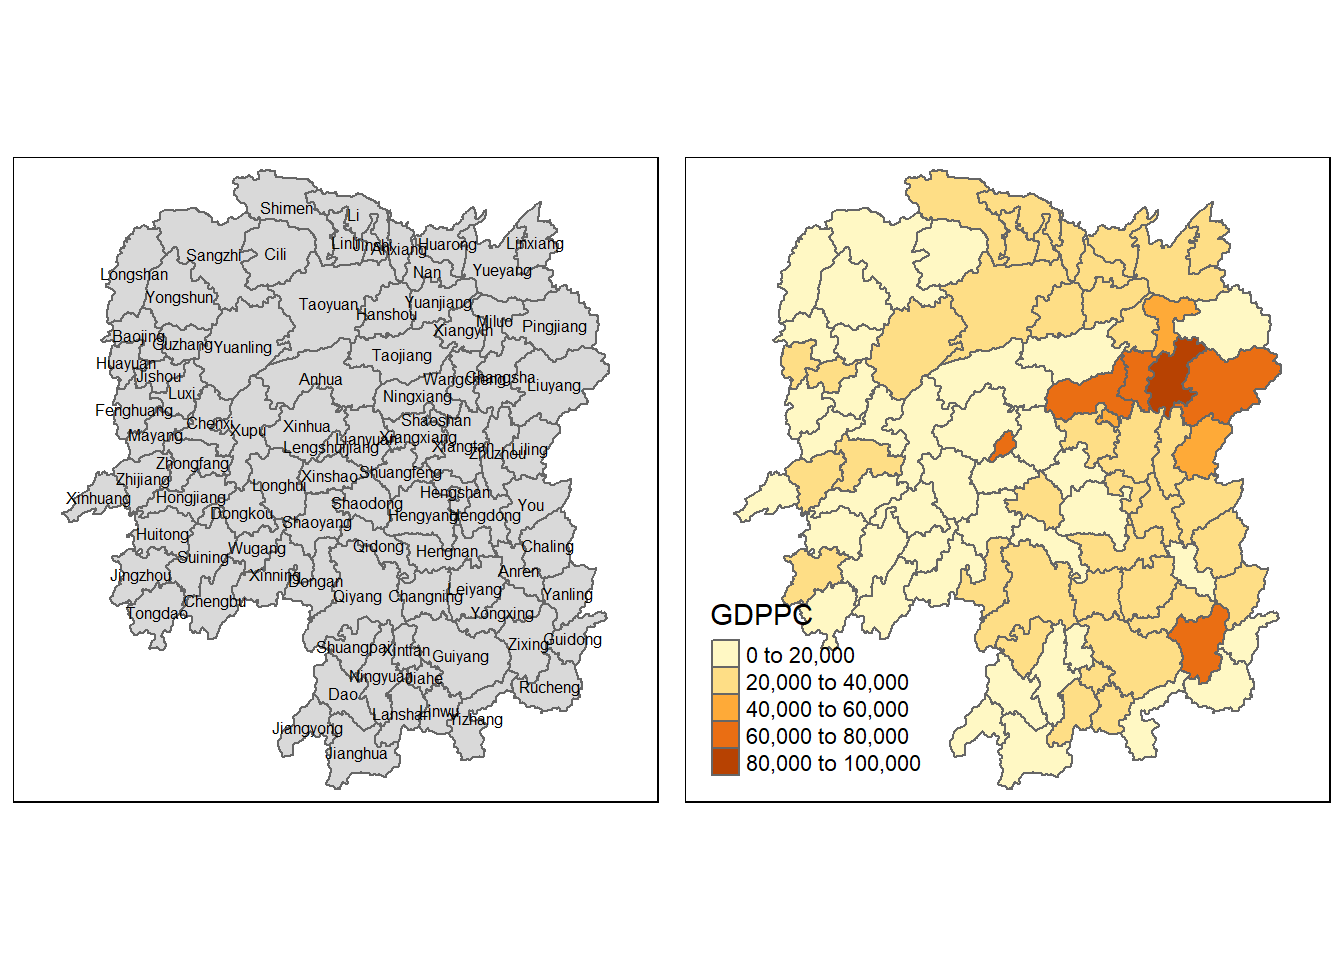
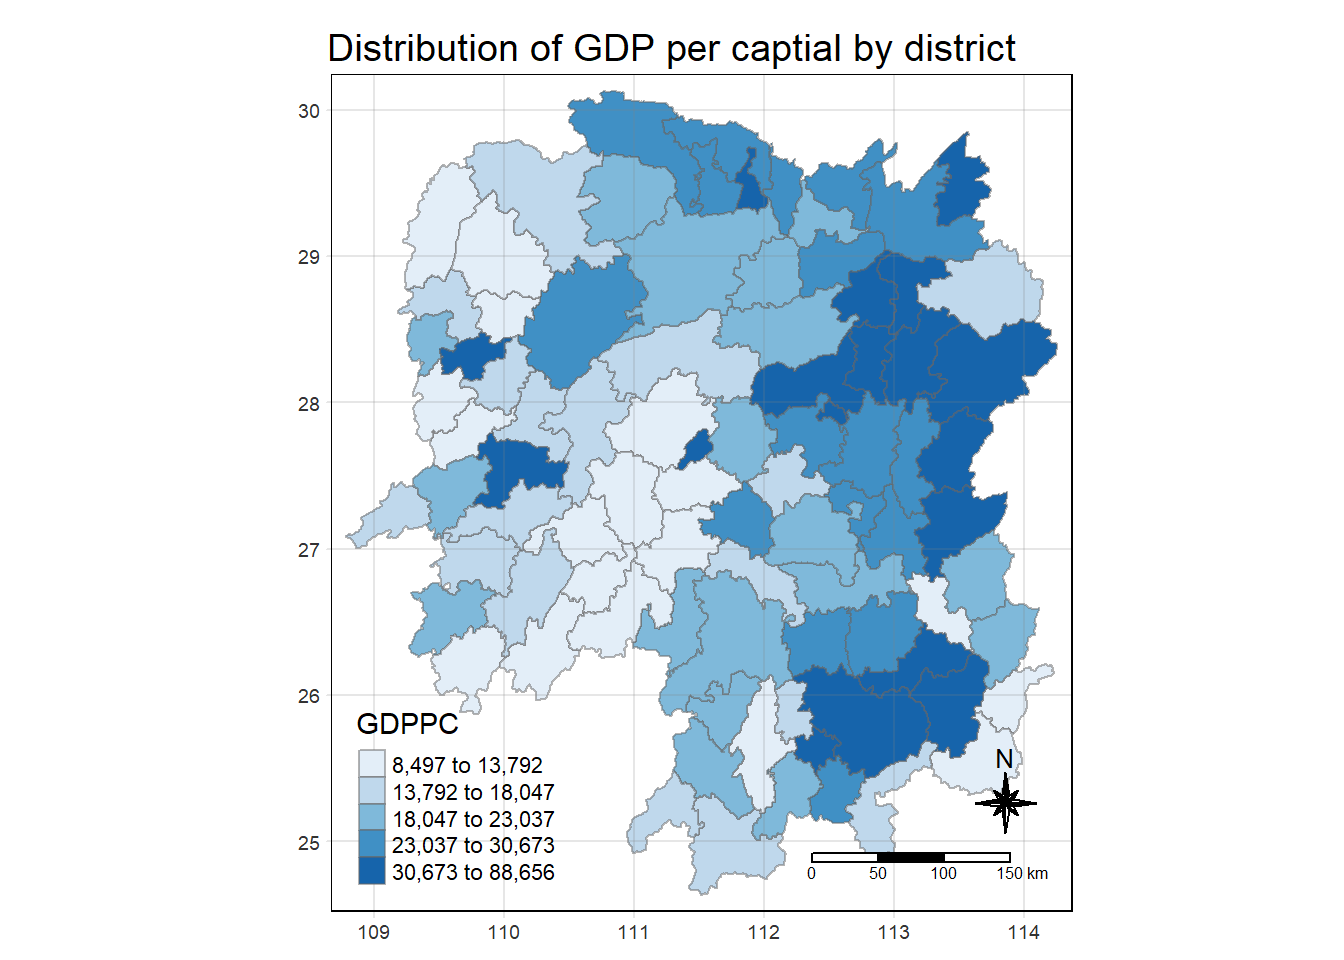
Commit in class exercise 6

diff --git a/_site/In-class_Ex/In-class_Ex06.html b/_site/In-class_Ex/In-class_Ex06.html
@@ -237,7 +237,11 @@ code span.wa { color: #60a0b0; font-weight: bold; font-style: italic; } /* Warni
   <li><a href="#importing-csv-file-into-environment" id="toc-importing-csv-file-into-environment" class="nav-link" data-scroll-target="#importing-csv-file-into-environment">1.2 Importing CSV file into environment</a></li>
   <li><a href="#performing-relational-join" id="toc-performing-relational-join" class="nav-link" data-scroll-target="#performing-relational-join">1.3 Performing relational join</a></li>
   </ul></li>
-  <li><a href="#plotting-a-choropleth-map" id="toc-plotting-a-choropleth-map" class="nav-link" data-scroll-target="#plotting-a-choropleth-map">2 Plotting a Choropleth Map</a></li>
+  <li><a href="#plotting-a-choropleth-map" id="toc-plotting-a-choropleth-map" class="nav-link" data-scroll-target="#plotting-a-choropleth-map">2. Plotting a Choropleth Map</a>
+  <ul class="collapse">
+  <li><a href="#identify-area-neighbours" id="toc-identify-area-neighbours" class="nav-link" data-scroll-target="#identify-area-neighbours">2.1 Identify Area Neighbours</a></li>
+  <li><a href="#computing-contiguity-weights" id="toc-computing-contiguity-weights" class="nav-link" data-scroll-target="#computing-contiguity-weights">2.2 Computing contiguity weights</a></li>
+  </ul></li>
   </ul>
 </nav>
     </div>
@@ -329,20 +333,66 @@ Geodetic CRS:  WGS 84</code></pre>
 </section>
 </section>
 <section id="plotting-a-choropleth-map" class="level1">
-<h1>2 Plotting a Choropleth Map</h1>
+<h1>2. Plotting a Choropleth Map</h1>
 <div class="cell">
-<div class="sourceCode cell-code" id="cb6"><pre class="sourceCode r code-with-copy"><code class="sourceCode r"><span id="cb6-1"><a href="#cb6-1" aria-hidden="true" tabindex="-1"></a>basemap <span class="ot">&lt;-</span> <span class="fu">tm_shape</span>(hunan_GDPPC) <span class="sc">+</span></span>
-<span id="cb6-2"><a href="#cb6-2" aria-hidden="true" tabindex="-1"></a>  <span class="fu">tm_polygons</span>() <span class="sc">+</span></span>
-<span id="cb6-3"><a href="#cb6-3" aria-hidden="true" tabindex="-1"></a>  <span class="fu">tm_text</span>(<span class="st">"NAME_3"</span>, <span class="at">size=</span><span class="fl">0.5</span>)</span>
-<span id="cb6-4"><a href="#cb6-4" aria-hidden="true" tabindex="-1"></a></span>
-<span id="cb6-5"><a href="#cb6-5" aria-hidden="true" tabindex="-1"></a>gdppc <span class="ot">&lt;-</span> <span class="fu">qtm</span>(hunan_GDPPC, <span class="st">"GDPPC"</span>)</span>
-<span id="cb6-6"><a href="#cb6-6" aria-hidden="true" tabindex="-1"></a><span class="fu">tmap_arrange</span>(basemap, gdppc, <span class="at">asp=</span><span class="dv">1</span>, <span class="at">ncol=</span><span class="dv">2</span>)</span></code><button title="Copy to Clipboard" class="code-copy-button"><i class="bi"></i></button></pre></div>
+<div class="sourceCode cell-code" id="cb6"><pre class="sourceCode r code-with-copy"><code class="sourceCode r"><span id="cb6-1"><a href="#cb6-1" aria-hidden="true" tabindex="-1"></a><span class="fu">tmap_mode</span>(<span class="st">"plot"</span>)</span>
+<span id="cb6-2"><a href="#cb6-2" aria-hidden="true" tabindex="-1"></a><span class="fu">tm_shape</span>(hunan_GDPPC) <span class="sc">+</span></span>
+<span id="cb6-3"><a href="#cb6-3" aria-hidden="true" tabindex="-1"></a>  <span class="fu">tm_fill</span>(<span class="st">"GDPPC"</span>,</span>
+<span id="cb6-4"><a href="#cb6-4" aria-hidden="true" tabindex="-1"></a>          <span class="at">style =</span> <span class="st">"quantile"</span>, </span>
+<span id="cb6-5"><a href="#cb6-5" aria-hidden="true" tabindex="-1"></a>          <span class="at">palette =</span> <span class="st">"Blues"</span>,</span>
+<span id="cb6-6"><a href="#cb6-6" aria-hidden="true" tabindex="-1"></a>          <span class="at">title =</span> <span class="st">"GDPPC"</span>) <span class="sc">+</span></span>
+<span id="cb6-7"><a href="#cb6-7" aria-hidden="true" tabindex="-1"></a>  <span class="fu">tm_layout</span>(<span class="at">main.title =</span> <span class="st">"Distribution of GDP per captial by district"</span>,</span>
+<span id="cb6-8"><a href="#cb6-8" aria-hidden="true" tabindex="-1"></a>            <span class="at">main.title.position =</span> <span class="st">"center"</span>,</span>
+<span id="cb6-9"><a href="#cb6-9" aria-hidden="true" tabindex="-1"></a>            <span class="at">main.title.size =</span> <span class="fl">1.2</span>,</span>
+<span id="cb6-10"><a href="#cb6-10" aria-hidden="true" tabindex="-1"></a>            <span class="at">legend.height =</span> <span class="fl">0.45</span>,</span>
+<span id="cb6-11"><a href="#cb6-11" aria-hidden="true" tabindex="-1"></a>            <span class="at">legend.width =</span> <span class="fl">0.35</span>,</span>
+<span id="cb6-12"><a href="#cb6-12" aria-hidden="true" tabindex="-1"></a>            <span class="at">frame =</span> <span class="cn">TRUE</span>) <span class="sc">+</span></span>
+<span id="cb6-13"><a href="#cb6-13" aria-hidden="true" tabindex="-1"></a>  <span class="fu">tm_borders</span>(<span class="at">alpha =</span> <span class="fl">0.5</span>) <span class="sc">+</span></span>
+<span id="cb6-14"><a href="#cb6-14" aria-hidden="true" tabindex="-1"></a>  <span class="fu">tm_compass</span>(<span class="at">type=</span><span class="st">"8star"</span>, <span class="at">size =</span> <span class="dv">2</span>) <span class="sc">+</span></span>
+<span id="cb6-15"><a href="#cb6-15" aria-hidden="true" tabindex="-1"></a>  <span class="fu">tm_scale_bar</span>() <span class="sc">+</span> </span>
+<span id="cb6-16"><a href="#cb6-16" aria-hidden="true" tabindex="-1"></a>  <span class="fu">tm_grid</span>(<span class="at">alpha =</span> <span class="fl">0.2</span>)</span></code><button title="Copy to Clipboard" class="code-copy-button"><i class="bi"></i></button></pre></div>
 <div class="cell-output-display">
 <p><img src="In-class_Ex06_files/figure-html/unnamed-chunk-5-1.png" class="img-fluid" width="672"></p>
 </div>
 </div>
+<section id="identify-area-neighbours" class="level2">
+<h2 class="anchored" data-anchor-id="identify-area-neighbours">2.1 Identify Area Neighbours</h2>
+<p>In the code chunk below st_cotiguity() is used to derive a contiguity neighbour list by using Queen’s method.</p>
+<p>Queen Contiguity Weight Matrix</p>
+<div class="cell">
+<div class="sourceCode cell-code" id="cb7"><pre class="sourceCode r code-with-copy"><code class="sourceCode r"><span id="cb7-1"><a href="#cb7-1" aria-hidden="true" tabindex="-1"></a>cn_queen <span class="ot">&lt;-</span> hunan_GDPPC <span class="sc">%&gt;%</span></span>
+<span id="cb7-2"><a href="#cb7-2" aria-hidden="true" tabindex="-1"></a>  <span class="fu">mutate</span>(<span class="at">nb =</span> <span class="fu">st_contiguity</span>(geometry),</span>
+<span id="cb7-3"><a href="#cb7-3" aria-hidden="true" tabindex="-1"></a>         <span class="at">.before =</span> <span class="dv">1</span>)</span></code><button title="Copy to Clipboard" class="code-copy-button"><i class="bi"></i></button></pre></div>
+</div>
+<p>In the code chunk below st_cotiguity() is used to derive a contiguity neighbour list by using Rook’s method setting argument queen to FALSE.</p>
+<p>Rook Contiguity Weight Matrix</p>
+<div class="cell">
+<div class="sourceCode cell-code" id="cb8"><pre class="sourceCode r code-with-copy"><code class="sourceCode r"><span id="cb8-1"><a href="#cb8-1" aria-hidden="true" tabindex="-1"></a>cn_rook <span class="ot">&lt;-</span> hunan_GDPPC <span class="sc">%&gt;%</span></span>
+<span id="cb8-2"><a href="#cb8-2" aria-hidden="true" tabindex="-1"></a>  <span class="fu">mutate</span>(<span class="at">nb =</span> <span class="fu">st_contiguity</span>(geometry),</span>
+<span id="cb8-3"><a href="#cb8-3" aria-hidden="true" tabindex="-1"></a>         <span class="at">queen =</span> <span class="cn">FALSE</span>,</span>
+<span id="cb8-4"><a href="#cb8-4" aria-hidden="true" tabindex="-1"></a>         <span class="at">.before =</span> <span class="dv">1</span>)</span></code><button title="Copy to Clipboard" class="code-copy-button"><i class="bi"></i></button></pre></div>
+</div>
+</section>
+<section id="computing-contiguity-weights" class="level2">
+<h2 class="anchored" data-anchor-id="computing-contiguity-weights">2.2 Computing contiguity weights</h2>
+<p>Contiguity weights: Queen’s method</p>
+<div class="cell">
+<div class="sourceCode cell-code" id="cb9"><pre class="sourceCode r code-with-copy"><code class="sourceCode r"><span id="cb9-1"><a href="#cb9-1" aria-hidden="true" tabindex="-1"></a>wm_q <span class="ot">&lt;-</span> hunan_GDPPC <span class="sc">%&gt;%</span></span>
+<span id="cb9-2"><a href="#cb9-2" aria-hidden="true" tabindex="-1"></a>  <span class="fu">mutate</span>(<span class="at">nb =</span> <span class="fu">st_contiguity</span>(geometry),</span>
+<span id="cb9-3"><a href="#cb9-3" aria-hidden="true" tabindex="-1"></a>         <span class="at">wt =</span> <span class="fu">st_weights</span>(nb),</span>
+<span id="cb9-4"><a href="#cb9-4" aria-hidden="true" tabindex="-1"></a>         <span class="at">.before =</span> <span class="dv">1</span>)</span></code><button title="Copy to Clipboard" class="code-copy-button"><i class="bi"></i></button></pre></div>
+</div>
+<p>Contiguity weights: Rook’s method</p>
+<div class="cell">
+<div class="sourceCode cell-code" id="cb10"><pre class="sourceCode r code-with-copy"><code class="sourceCode r"><span id="cb10-1"><a href="#cb10-1" aria-hidden="true" tabindex="-1"></a>wm_q <span class="ot">&lt;-</span> hunan_GDPPC <span class="sc">%&gt;%</span></span>
+<span id="cb10-2"><a href="#cb10-2" aria-hidden="true" tabindex="-1"></a>  <span class="fu">mutate</span>(<span class="at">nb =</span> <span class="fu">st_contiguity</span>(geometry),</span>
+<span id="cb10-3"><a href="#cb10-3" aria-hidden="true" tabindex="-1"></a>  <span class="at">queen =</span> <span class="cn">FALSE</span>,</span>
+<span id="cb10-4"><a href="#cb10-4" aria-hidden="true" tabindex="-1"></a>  <span class="at">wt =</span> <span class="fu">st_weights</span>(nb),</span>
+<span id="cb10-5"><a href="#cb10-5" aria-hidden="true" tabindex="-1"></a>  <span class="at">.before =</span> <span class="dv">1</span>)</span></code><button title="Copy to Clipboard" class="code-copy-button"><i class="bi"></i></button></pre></div>
+</div>
 
 
+</section>
 </section>
 
 </main> <!-- /main -->
